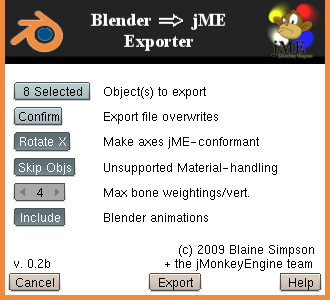
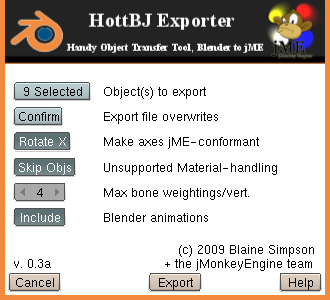
Rebranding

diff --git a/src/hottbj/releasenotes.html b/src/hottbj/releasenotes.html
@@ -3,7 +3,7 @@
 <!-- $Id$ -->
 <HTML>
   <HEAD>
-    <TITLE>Blender / jME Exporter Help</TITLE>
+    <TITLE>HottBJ Exporter Help</TITLE>
     <meta http-equiv="content-type" content="text/html; charset=UTF-8">
 <html>
 <head>
@@ -32,8 +32,9 @@
     </STYLE>
   </HEAD>
   <BODY>
-    <h3>Blender &#x21d2; jME Exporter Help</h3>
-    Covers version ${product.version}.
+    <h3>HottBJ Exporter Help</h3>
+    Covers version ${product.version} of the
+    <b><i>Handy Object Transfer Tool, Blender to jME</i></b>.
     <BR/>
     Copyright 2009 by Blaine Simpson and the jME Dev Team,
     with the included BSD open source license.
@@ -63,6 +64,8 @@
     <h4 id="changelist">Change List</h4>
     <ul>
       <li>Changes since 0.2d<ol>
+        <li>This product rebranded from "Blender ==> jME Exporter"
+          to "HottBJ Exporter".
         <li>Fix bug where mat rejections cause export to abort, regardless of
           settings.
         <li>Improved animation/posing diagnostics
@@ -89,7 +92,7 @@
           of a Blender String game property of name "jme.implClass".
         <li>Support automatic loading of all Blender game properties into jME
           UserData maps.  See sample file
-          <code>src/blenderjme/AppAttrNode.java</code>.
+          <code>src/hottbj/AppAttrNode.java</code>.
         <li>Refactored transform translations so that jME side will always get
           +Z-forward or -Y-forward Objects, depending on whether
           <code>Rotate X</code> is set.

diff --git a/src/hottbj/exporter.html b/src/hottbj/exporter.html
@@ -3,7 +3,7 @@
 <!-- $Id$ -->
 <HTML>
   <HEAD>
-    <TITLE>Blender / jME Exporter Help</TITLE>
+    <TITLE>HottBJ Exporter Help</TITLE>
     <meta http-equiv="content-type" content="text/html; charset=UTF-8">
 <html>
 <head>
@@ -32,8 +32,9 @@
     </STYLE>
   </HEAD>
   <BODY>
-    <h3>Blender &#x21d2; jME Exporter Help</h3>
-    Covers version ${product.version}.
+    <h3>HottBJ Exporter Help</h3>
+    Covers version ${product.version} of the
+    <b><i>Handy Object Transfer Tool, Blender to jME</i></b>.
     <BR/>
     Copyright 2009 by Blaine Simpson and the jME Dev Team,
     with the included BSD open source license.
@@ -276,7 +277,7 @@
           face-specific vertex colors.
           The exporter duplicates vertexes where necessary to accommodate jME's
           lack of face support.
-          As an example of this, consider a blender Plane object which you
+          As an example of this, consider a Blender Plane object which you
           subdivide on two opposing edges, making a plane with 6 vertexes and
           2 faces.
           This object would export to a 6-vertex jME QuadMesh unless you paint

diff --git a/src/hottbj/troubleshooting.html b/src/hottbj/troubleshooting.html
@@ -3,7 +3,7 @@
 <!-- $Id$ -->
 <HTML>
   <HEAD>
-    <TITLE>Blender / jME Exporter Troubleshooting</TITLE>
+    <TITLE>HottBJ Exporter Troubleshooting</TITLE>
     <meta http-equiv="content-type" content="text/html; charset=UTF-8">
 <html>
 <head>
@@ -33,8 +33,9 @@
     </STYLE>
   </HEAD>
   <BODY>
-    <h3>Blender &#x21d2; jME Exporter Troubleshooting</h3>
-    Covers version ${product.version}.
+    <h3>HottBJ Exporter Troubleshooting</h3>
+    Covers version ${product.version} of the
+    <b><i>Handy Object Transfer Tool, Blender to jME</i></b>.
     <BR/>
     Copyright 2009 by Blaine Simpson and the jME Dev Team,
     with the included BSD open source license.

diff --git a/src/hottbj/skinandbones.html b/src/hottbj/skinandbones.html
@@ -33,9 +33,9 @@
     </STYLE>
   </HEAD>
   <BODY>
-    <h3>Skin &amp; Bones Exporting with<br/>
-      Blender &#x21d2; jME Exporter</h3>
-    Covers version ${product.version}.
+    <h3>Skin &amp; Bones Exporting with HottBJ Exporter</h3>
+    Covers version ${product.version} of the
+    <b><i>Handy Object Transfer Tool, Blender to jME</i></b>.
     <BR/>
     Copyright 2009 by Blaine Simpson and the jME Dev Team,
     with the included BSD open source license.

diff --git a/src/hottbj/exporter.py b/src/hottbj/exporter.py
@@ -34,17 +34,17 @@ from Blender.Window import EditMode as _bEditMode
 from jme.xml import XmlFile as _XmlFile
 from datetime import datetime as _datetime
 from bpy import data as _bdata
-from blenderjme.wrapperclasses import NodeTree as _NodeTree
-from blenderjme.wrapperclasses import JmeSkinAndBone as _JmeSkinAndBone
-from blenderjme.wrapperclasses import JmeNode as _JmeNode
+from hottbj.wrapperclasses import NodeTree as _NodeTree
+from hottbj.wrapperclasses import JmeSkinAndBone as _JmeSkinAndBone
+from hottbj.wrapperclasses import JmeNode as _JmeNode
 from Blender.Modifier import Type as _bModifierType
 from Blender.Modifier import Settings as _bModifierSettings
 from Blender.Object import ParentTypes as _bParentTypes
 import Blender.Mathutils as _bmath
-import blenderjme
+import hottbj
 import jme.esmath as _esmath
 
-recordTimestamp = "--nostamps" not in blenderjme.blenderArgs
+recordTimestamp = "--nostamps" not in hottbj.blenderArgs
 
 def descendantOf(meNode, ancestor):
     if meNode.parent == None: return False
@@ -152,7 +152,7 @@ def gen(saveAll, autoRotate, skipObjs=True,
 
         if root == None: raise Exception("Nothing to do...")
 
-        stampText = "Blender export by Blender-to-jME Exporter"
+        stampText = "Blender export by HottBJ Exporter"
         if recordTimestamp: stampText += (" at " + _datetime.now().isoformat())
         stampText += ("\n     Exporter (not this file!) copyright by\n"
                 + "     " + __author__ + "\n     + the jMonkeyEngine Dev Team")

diff --git a/src/hottbj/gui.py b/src/hottbj/gui.py
@@ -42,14 +42,14 @@ from bpy import data as _bdata
 import exporter as _exporter
 from os.path import abspath as _abspath
 from os.path import isfile as _isfile
-import blenderjme
-from blenderjme.wrapperclasses import JmeNode as _JmeNode
+import hottbj
+from hottbj.wrapperclasses import JmeNode as _JmeNode
 from traceback import tb_lineno as _tb_lineno
 from sys import exc_info as _exc_info
 import webbrowser as _webbrowser
 
 defaultFilePath = _abspath("default-jme.xml")
-helpUrl = "file://" + blenderjme.resFileAbsPath("exporter.html")
+helpUrl = "file://" + hottbj.resFileAbsPath("exporter.html")
 saveAll = False
 xmlFile = None
 axisFlip = True
@@ -171,7 +171,7 @@ class GuiBox(object):
     def __loadImages(self):
         self.__imgs = []
         for path in self.__imgpaths:
-            self.__imgs.append(_bLoad(blenderjme.resFileAbsPath(path)))
+            self.__imgs.append(_bLoad(hottbj.resFileAbsPath(path)))
         for img in self.__imgs: img.glLoad()
 
     def free(self):
@@ -222,8 +222,8 @@ def mkGuiBox():
     global guiBox
     if guiBox != None:
         raise Exception("Attempted to create 2nd GuiBox.  Ignoring.")
-    guiBox = GuiBox(330, 300,
-            ['bje-1.png', 'bje-2.png', 'bje-3.png', 'bje-4.png', 'bje-5.png'])
+    guiBox = GuiBox(330, 300, ['hottbj-1.png', 'hottbj-2.png',
+        'hottbj-3.png', 'hottbj-4.png', 'hottbj-5.png'])
 
 def redrawDummy(x, y): _bDraw.Redraw()
 

diff --git a/src/hottbj_reg.py b/src/hottbj_reg.py
@@ -1,11 +1,15 @@
 #!BPY
-"""Blender ==> jME XML format Exporter
+"""HottBJ Exporter
 Name: 'JMonkeyEngine (*-jme.xml)'
 Blender: 248
 Group: 'Export'
 Tip: 'Export to jMonkeyEngine XML file'"""
+
+# SEE FILES hottbj/install.txt and hottbj/license.txt for the obvious purposes.
+
+
 # TODO:  install archived version of Blender and set the Blender version
-# above to the older version that this product works with.
+# above to the oldest version that this product works with.
 
 __version__ = '${product.version}'
 __date__ = '${build.time}'
@@ -43,7 +47,7 @@ __bpydoc__ = "Run the exporter and hit the Help button in the Gui."
 # (INCLUDING NEGLIGENCE OR OTHERWISE) ARISING IN ANY WAY OUT OF THE USE OF THIS
 # SOFTWARE, EVEN IF ADVISED OF THE POSSIBILITY OF SUCH DAMAGE.
 
-from blenderjme import gui
+from hottbj import gui
 from Blender.Draw import Register
 
 # As there is little point to unit testing this script, it always assumes

diff --git a/src/blendertest/intmodules.py b/src/blendertest/intmodules.py
@@ -39,14 +39,14 @@ __url__ = 'http://www.jmonkeyengine.com'
 
 print "Watch console for errors..."
 try:
-    #from blenderjme.gui import...  Gui will not work w/out real screen
+    #from hottbj.gui import...  Gui will not work w/out real screen
     import jme as dummy01
     import jme.esmath as dummy02
     import jme.xml as dummy03
-    import blenderjme as dummy04
-    import blenderjme.gui as dummy05
-    import blenderjme.exporter as dummy06
-    import blenderjme.wrapperclasses as dummy07
+    import hottbj as dummy04
+    import hottbj.gui as dummy05
+    import hottbj.exporter as dummy06
+    import hottbj.wrapperclasses as dummy07
 
 except Exception, e:
     print "jME module is broken or is not available in execution environment."

diff --git a/src/hottbj/XmlWorld.java b/src/hottbj/XmlWorld.java
@@ -120,7 +120,7 @@ public class XmlWorld extends SimpleGame {
          * This setModelBound is not suitable for general usage.
          * If the model file contains specific model bounds for nested
          * Geometries, this will replace them all with new BoundingBoxes.
-         * Since the Blender => jME Exporter doesn't store bounding volumes
+         * Since the HottBJ Exporter doesn't store bounding volumes
          * yet, that's ok, but there's also no opportunity to choose a
          * BoundingSphere or OBB instead of a plain box.
          */

diff --git a/src/hottbj/XmlAnimator.java b/src/hottbj/XmlAnimator.java
@@ -43,7 +43,7 @@ import com.jme.animation.Bone;
 /**
  * Sample SimpleGame class which extends the behavior of XmlWorld to execute
  * the first animation of a Bone named with suffix 'SuperBone.
- * This Spatial will be created automatically by the * Blender ==> jME Exporter
+ * This Spatial will be created automatically by the HottBJ Exporter
  * if your Blender scene has an Armature with Blender's default name of
  * 'Armature' (and you select it for export).
  *

diff --git a/src/blendertest/planetrans.py b/src/blendertest/planetrans.py
@@ -37,8 +37,8 @@ __url__ = 'http://www.jmonkeyengine.com'
 import Blender
 import unittest
 from unittest import *
-from blenderjme import exporter
-from blenderjme.exporter import gen
+from hottbj import exporter
+from hottbj.exporter import gen
 from blendertest import resFileContent, resFileAbsPath
 import blendertest
 

diff --git a/src/blendertest/complexparenting.py b/src/blendertest/complexparenting.py
@@ -41,8 +41,8 @@ Blender.Load(resFileAbsPath("complexparenting.blend"))
 
 import unittest
 from unittest import *
-from blenderjme import exporter
-from blenderjme.exporter import gen
+from hottbj import exporter
+from hottbj.exporter import gen
 from blendertest import resFileContent
 
 class Tests(unittest.TestCase):
